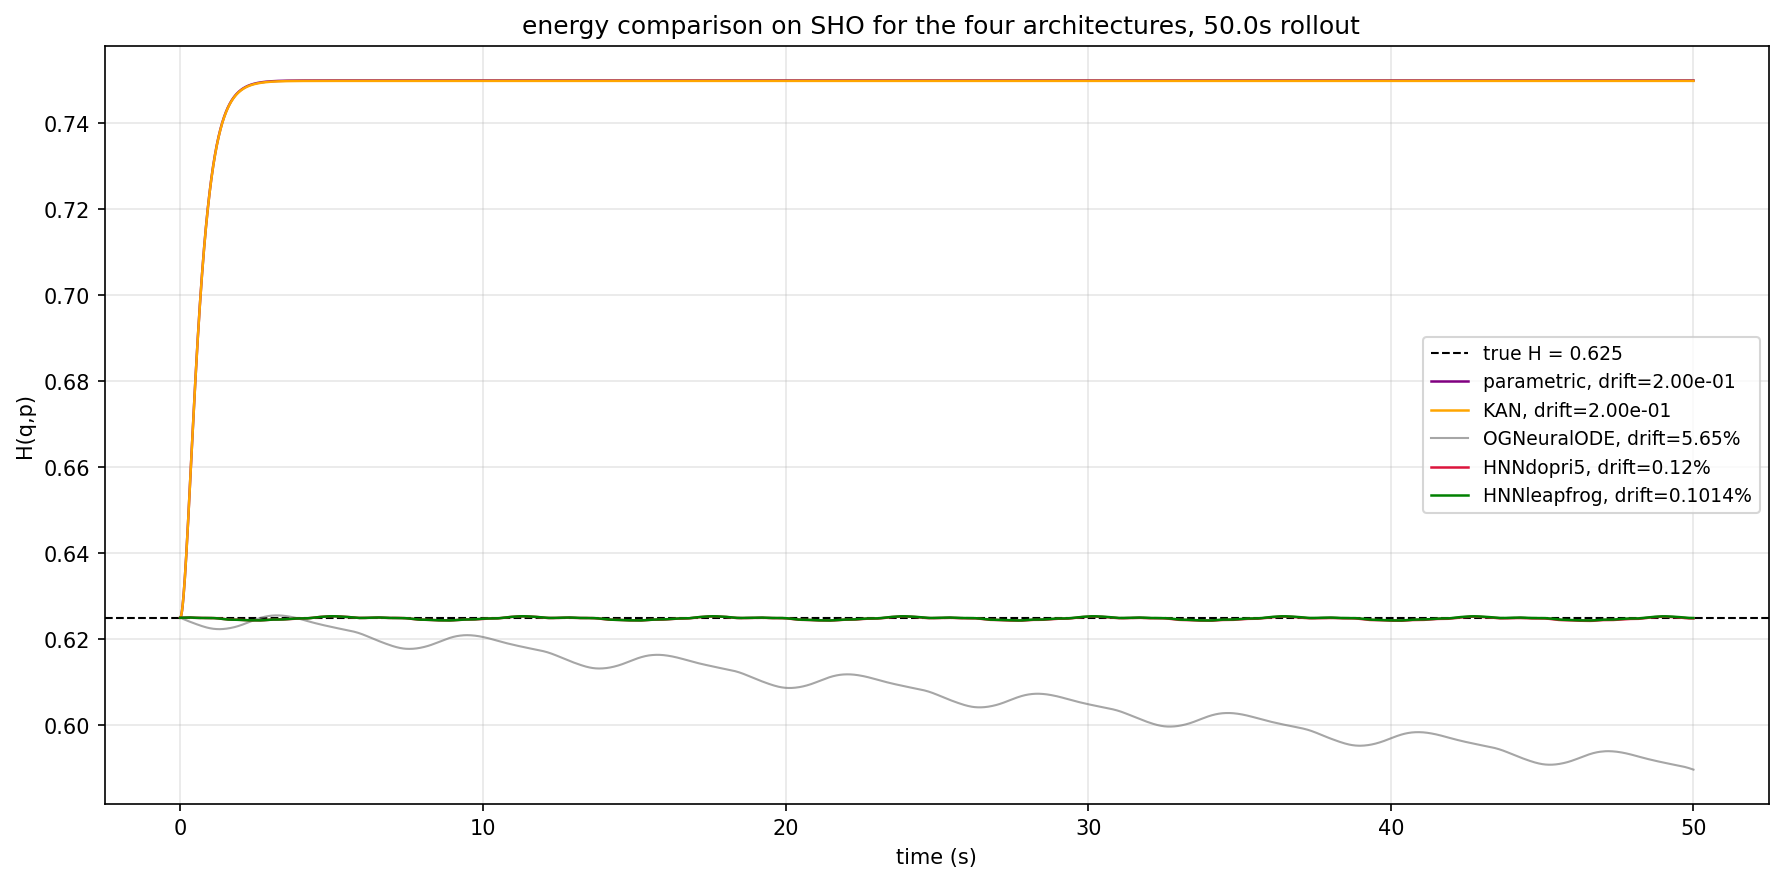
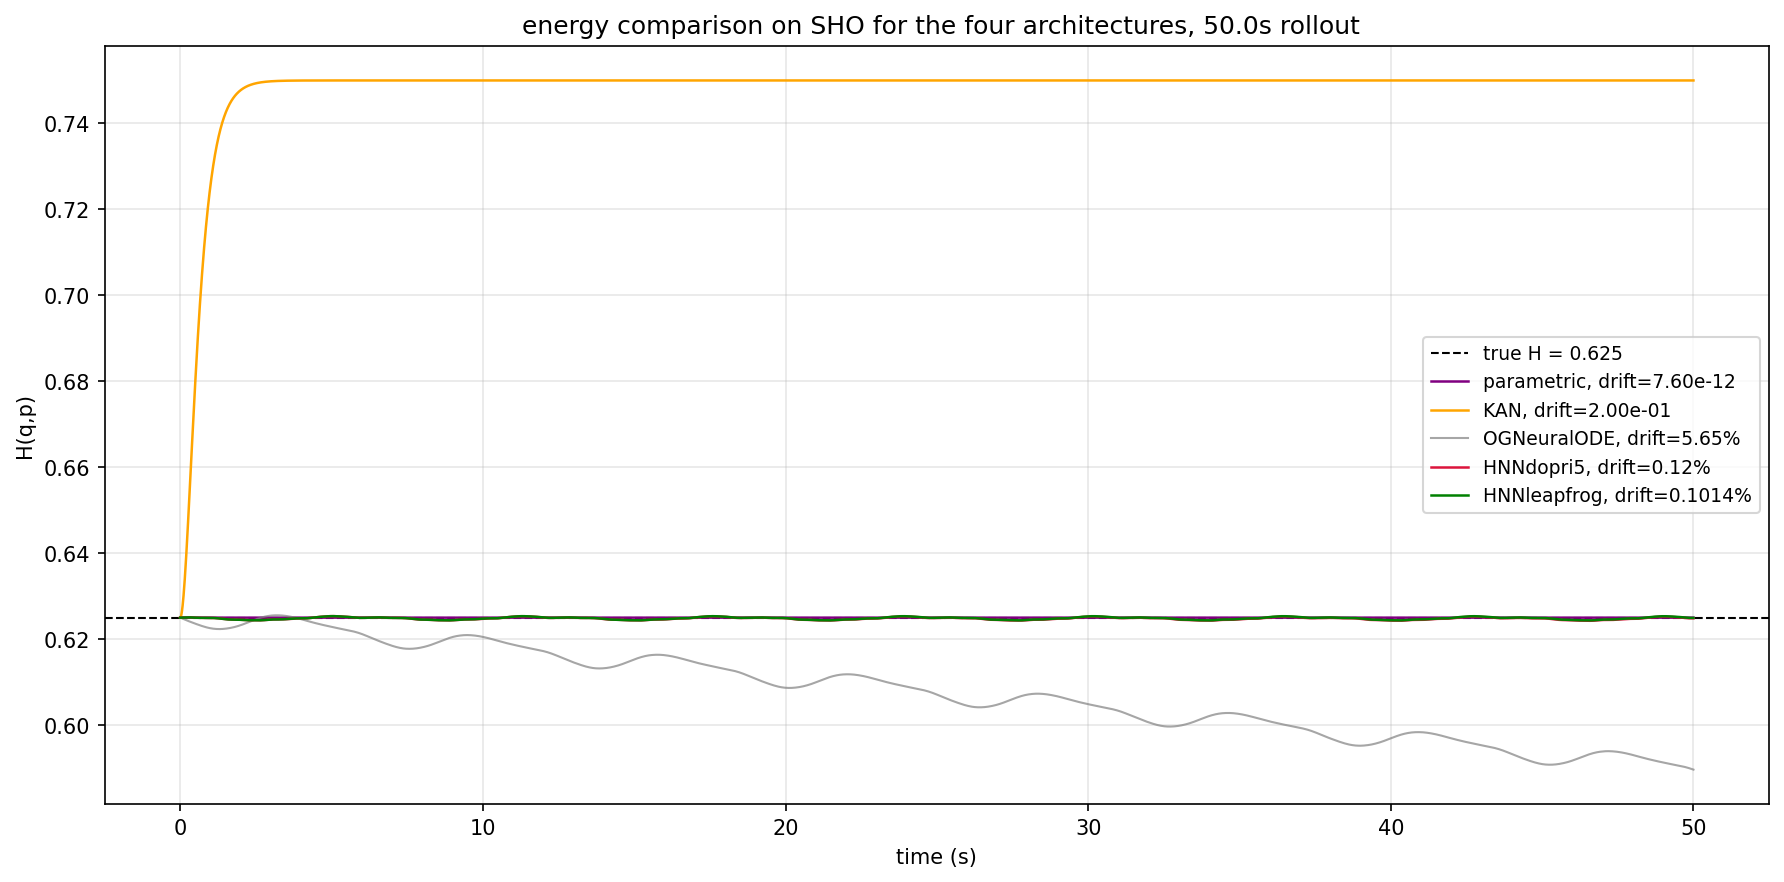
there was a dumb typo

Changed region(s): [[0.7707, 0.6735, 0.8016, 0.7041], [0.5549, 0.6735, 0.5858, 0.7041], [0.3391, 0.6735, 0.37, 0.7041]]

diff --git a/notebooks/comparison_sho.py b/notebooks/comparison_sho.py
@@ -59,7 +59,7 @@ def parametric_rollout(q0,p0,t_eval):
 
     def deriv(t,state):
         q,p=state
-        return [2*a*p, -2*p*q]
+        return [2*a*p, -2*b*q]
 
     soln=solve_ivp(deriv, (t_eval[0], t_eval[-1]), [q0, p0], t_eval=t_eval, method= 'DOP853', rtol=1e-12, atol=1e-12)
     return soln.y[0], soln.y[1]
